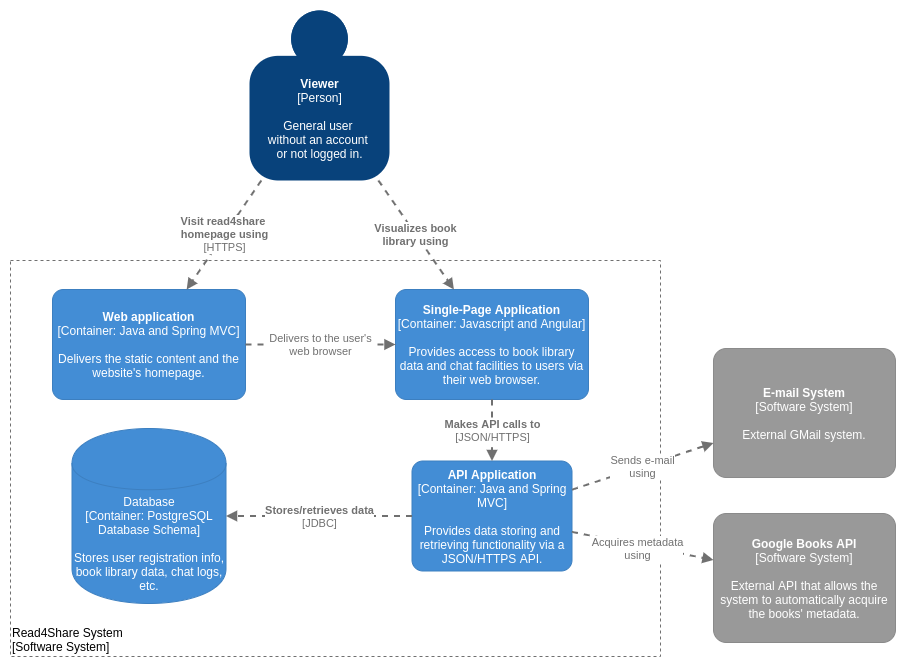
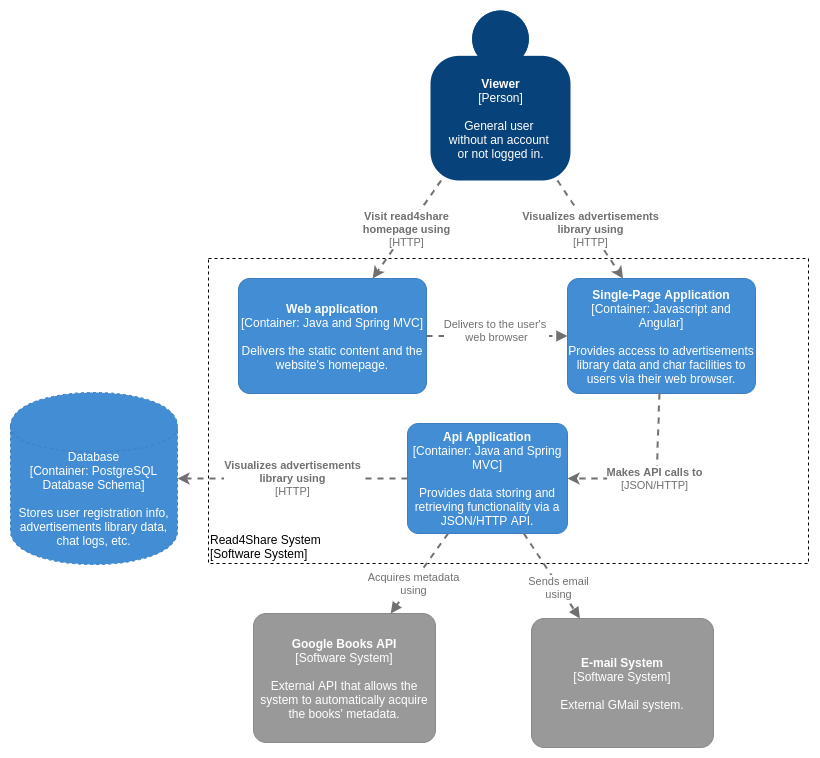
Updated C2 diagram, Implemented JPA annotations

diff --git a/read4share-frontend/src/app/services/data.service.ts b/read4share-frontend/src/app/services/data.service.ts
@@ -15,7 +15,7 @@ const httpOptions = {
   providedIn: 'root',
 })
 export class DataService {
-  private apiUrl = 'http://localhost:8080';
+  private apiUrl = 'http://localhost:8080/api';
 
   constructor(private http: HttpClient) {}
 
@@ -26,7 +26,7 @@ export class DataService {
 
   getBooks(): Observable<Book[]> {
     // HTTP GET request for the books
-    return this.http.get<Book[]>(this.apiUrl + '/book/all');
+    return this.http.get<Book[]>(this.apiUrl + '/adv/all');
   }
 
   addUser(user: User): Observable<User> {

diff --git a/read4share/src/test/java/track/individual/read4share/repository/BookRepoTest.java b/read4share/src/test/java/track/individual/read4share/repository/BookRepoTest.java
@@ -1,0 +1,31 @@
+package track.individual.read4share.repository;
+
+import org.junit.jupiter.api.Test;
+import org.springframework.beans.factory.annotation.Autowired;
+import org.springframework.boot.test.context.SpringBootTest;
+import org.springframework.data.jpa.repository.EntityGraph;
+import org.springframework.data.jpa.repository.Query;
+import track.individual.read4share.model.Book;
+
+import javax.transaction.Transactional;
+import java.util.List;
+import java.util.Optional;
+
+import static org.junit.jupiter.api.Assertions.*;
+
+@SpringBootTest
+class BookRepoTest {
+    
+    @Autowired
+    private BookRepo bookRepo;
+
+    //@Transactional
+    //@Query("select b from book b left join b.category c where c.id = :catId")
+    //@EntityGraph(attributePaths = { "category"})
+    @Test
+    public void findBookByIsbn() {
+        Optional<Book> books = bookRepo.findBookByIsbn("1111111111111");
+        System.out.println("books = " + books.get().getCategory());
+    }
+
+}

diff --git a/read4share/src/main/java/track/individual/read4share/model/Category.java b/read4share/src/main/java/track/individual/read4share/model/Category.java
@@ -1,8 +1,6 @@
 package track.individual.read4share.model;
 
-import lombok.AllArgsConstructor;
-import lombok.Builder;
-import lombok.NoArgsConstructor;
+import lombok.*;
 
 import javax.persistence.*;
 import java.util.HashSet;
@@ -12,10 +10,10 @@ import java.util.Set;
 @Entity(name = "Category")
 @Table(name = "category",
         uniqueConstraints = @UniqueConstraint(
-                name="category_name_unique", columnNames = "name"
-        )
+                name="category_name_unique", columnNames = "name")
 )
 @Builder
+@Data
 @AllArgsConstructor
 @NoArgsConstructor
 public class Category {
@@ -26,6 +24,6 @@ public class Category {
     @Column(name = "name", nullable = false)
     private String name;
 
-    @ManyToMany(mappedBy = "categories")
-    private Set<User> users = new HashSet<>();
+    //@ManyToMany(mappedBy = "categories", fetch = FetchType.LAZY)
+    //private Set<User> users;
 }

diff --git a/read4share/src/main/java/track/individual/read4share/controller/UserController.java b/read4share/src/main/java/track/individual/read4share/controller/UserController.java
@@ -1,0 +1,30 @@
+package track.individual.read4share.controller;
+
+import lombok.RequiredArgsConstructor;
+import lombok.extern.slf4j.Slf4j;
+import org.springframework.http.ResponseEntity;
+import org.springframework.web.bind.annotation.*;
+import track.individual.read4share.model.User;
+import track.individual.read4share.service.UserService;
+
+import java.util.List;
+
+@Slf4j
+@CrossOrigin(origins = "http://localhost:4200")
+@RestController()
+@RequestMapping("/api/user")
+@RequiredArgsConstructor
+public class UserController {
+
+    private final UserService userService;
+
+    @GetMapping("/all")
+    public ResponseEntity<List<User>> getUsers() {
+        return ResponseEntity.ok(userService.getUsers());
+    }
+
+    @PostMapping("/add")
+    public ResponseEntity<User> addUser(@RequestBody User user) {
+        return ResponseEntity.ok(userService.addUser(user));
+    }
+}

diff --git a/read4share/src/main/java/track/individual/read4share/controller/AdvController.java b/read4share/src/main/java/track/individual/read4share/controller/AdvController.java
@@ -1,0 +1,25 @@
+package track.individual.read4share.controller;
+
+import lombok.RequiredArgsConstructor;
+import lombok.extern.slf4j.Slf4j;
+import org.springframework.http.ResponseEntity;
+import org.springframework.web.bind.annotation.CrossOrigin;
+import org.springframework.web.bind.annotation.GetMapping;
+import org.springframework.web.bind.annotation.RequestMapping;
+import org.springframework.web.bind.annotation.RestController;
+import track.individual.read4share.service.AdvService;
+
+@Slf4j
+@CrossOrigin(origins = "http://localhost:4200")
+@RestController()
+@RequestMapping("/api/adv")
+@RequiredArgsConstructor
+public class AdvController {
+
+    private final AdvService advService;
+
+    @GetMapping("/all")
+    public ResponseEntity getBooks() {
+        return ResponseEntity.ok(advService.getBooks());
+    }
+}

diff --git a/read4share/src/main/java/track/individual/read4share/service/UserServiceImpl.java b/read4share/src/main/java/track/individual/read4share/service/UserServiceImpl.java
@@ -1,0 +1,35 @@
+package track.individual.read4share.service;
+
+import lombok.RequiredArgsConstructor;
+import org.springframework.stereotype.Service;
+import track.individual.read4share.model.User;
+import track.individual.read4share.repository.UserRepo;
+
+import java.util.List;
+
+@Service
+@RequiredArgsConstructor
+public class UserServiceImpl implements UserService {
+
+    private final UserRepo userRepo;
+
+    @Override
+    public User getUser(Long id) {
+        return null;
+    }
+
+    @Override
+    public User getUserByUsername(String username) {
+        return null;
+    }
+
+    @Override
+    public User addUser(User user) {
+        return userRepo.save(user);
+    }
+
+    @Override
+    public List<User> getUsers() {
+        return userRepo.findAll();
+    }
+}

diff --git a/read4share/src/main/java/track/individual/read4share/service/UserService.java b/read4share/src/main/java/track/individual/read4share/service/UserService.java
@@ -1,0 +1,35 @@
+package track.individual.read4share.service;
+
+import org.springframework.http.ResponseEntity;
+import track.individual.read4share.model.User;
+
+import java.util.List;
+
+public interface UserService {
+
+    /**
+     * Return a particular user
+     * @param id
+     * @return User with the specified id, Null otherwise
+     */
+    User getUser(Long id);
+
+    /**
+     * Return a particular user
+     * @param username
+     * @return User with the specified username, Null otherwise
+     */
+    User getUserByUsername(String username);
+
+    /**
+     * Add a new user to the system
+     * @param user
+     */
+    User addUser(User user);
+
+    /**
+     * Return all the users inside the DB
+     * @return
+     */
+    List<User> getUsers();
+}

diff --git a/read4share/src/main/java/track/individual/read4share/model/Book.java b/read4share/src/main/java/track/individual/read4share/model/Book.java
@@ -8,14 +8,21 @@ import lombok.NoArgsConstructor;
 import javax.persistence.*;
 import java.util.Date;
 
+@NamedEntityGraph(name = "book-category-graph",
+        attributeNodes = { @NamedAttributeNode("category") }
+)
 @Entity(name = "Book")
-@Table(name = "book")
+@Table(name = "book", uniqueConstraints = @UniqueConstraint(
+        name = "book_isbn_unique", columnNames = "isbn"))
 @Builder
 @Data
 @AllArgsConstructor
 @NoArgsConstructor
 public class Book {
     @Id
+    @GeneratedValue(strategy = GenerationType.IDENTITY)
+    @Column(name = "book_id")
+    private Long id;
     @Column(name = "isbn", length = 13)
     private String isbn;
     @Column(name = "title", nullable = false)

diff --git a/read4share/src/main/java/track/individual/read4share/model/User.java b/read4share/src/main/java/track/individual/read4share/model/User.java
@@ -1,9 +1,6 @@
 package track.individual.read4share.model;
 
-import lombok.AllArgsConstructor;
-import lombok.Builder;
-import lombok.Data;
-import lombok.NoArgsConstructor;
+import lombok.*;
 
 import javax.persistence.*;
 import java.util.HashSet;
@@ -54,7 +51,7 @@ public class User {
     @JoinTable(name = "user_category",
             joinColumns = @JoinColumn(name = "user_id"),
             inverseJoinColumns = @JoinColumn(name = "cat_id"))
-    private Set<Category> categories = new HashSet<>();
+    private Set<Category> categories;
 
     // Methods used to sync both sides of the bidirectional association
     public void addMessage(Message mess) {

diff --git a/read4share/src/main/java/track/individual/read4share/model/Advertisement.java b/read4share/src/main/java/track/individual/read4share/model/Advertisement.java
@@ -34,14 +34,14 @@ public class Advertisement {
      * Advertisement book
      */
     @ManyToOne(optional = false, fetch = FetchType.LAZY)
-    @JoinColumn(name = "fk_book_isbn", referencedColumnName = "isbn")
+    @JoinColumn(name = "fk_book_id", referencedColumnName = "book_id")
     private Book book;
 
     /**
      * Book conditions
      */
     @ManyToOne(optional = false, fetch = FetchType.LAZY)
-    @JoinColumn(name = "fk_cond_code", referencedColumnName = "cond_code")
+    @JoinColumn(name = "fk_cond_id", referencedColumnName = "cond_id")
     private Condition condition;
 
     /**

diff --git a/read4share/src/main/java/track/individual/read4share/service/AdvServiceImpl.java b/read4share/src/main/java/track/individual/read4share/service/AdvServiceImpl.java
@@ -1,0 +1,25 @@
+package track.individual.read4share.service;
+
+import lombok.RequiredArgsConstructor;
+import org.springframework.stereotype.Service;
+import track.individual.read4share.model.Book;
+import track.individual.read4share.repository.BookRepo;
+
+import java.util.List;
+
+@Service
+@RequiredArgsConstructor
+public class AdvServiceImpl implements AdvService {
+
+    private final BookRepo bookRepo;
+
+    @Override
+    public List<Book> getBooks() {
+        return bookRepo.findAll();
+    }
+
+    @Override
+    public Book getBook(String isbn) {
+        return null;
+    }
+}

diff --git a/read4share/src/main/java/track/individual/read4share/repository/BookRepo.java b/read4share/src/main/java/track/individual/read4share/repository/BookRepo.java
@@ -1,7 +1,16 @@
 package track.individual.read4share.repository;
 
+import org.springframework.data.jpa.repository.EntityGraph;
 import org.springframework.data.jpa.repository.JpaRepository;
+import org.springframework.stereotype.Repository;
 import track.individual.read4share.model.Book;
 
+import javax.transaction.Transactional;
+import java.util.Optional;
+
+@Repository
 public interface BookRepo extends JpaRepository<Book, Long> {
+
+    @EntityGraph(value = "book-category-graph", type = EntityGraph.EntityGraphType.FETCH)
+    Optional<Book> findBookByIsbn(String isbn);
 }
